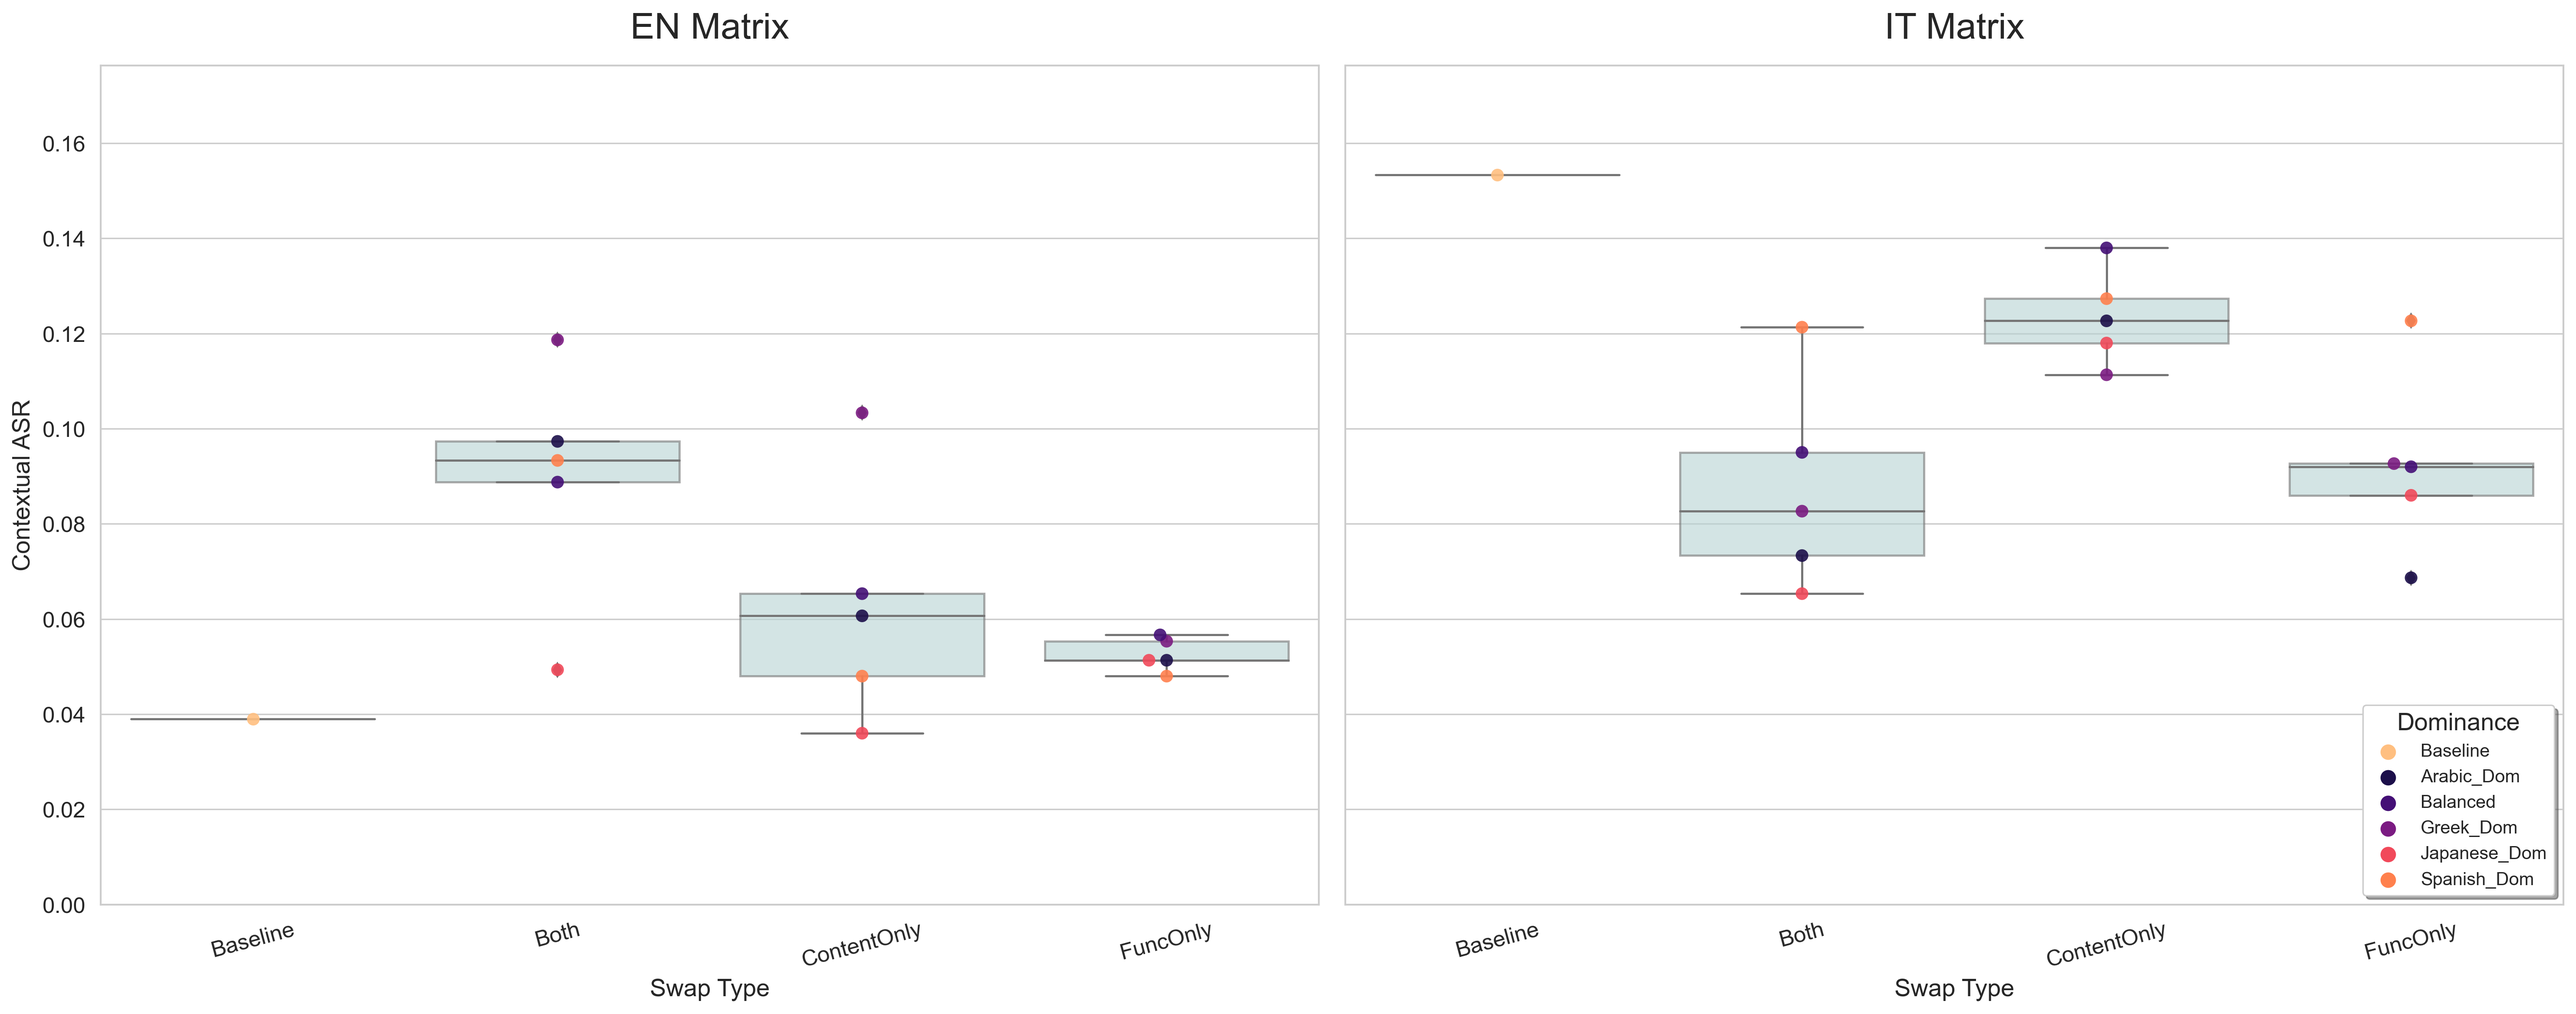
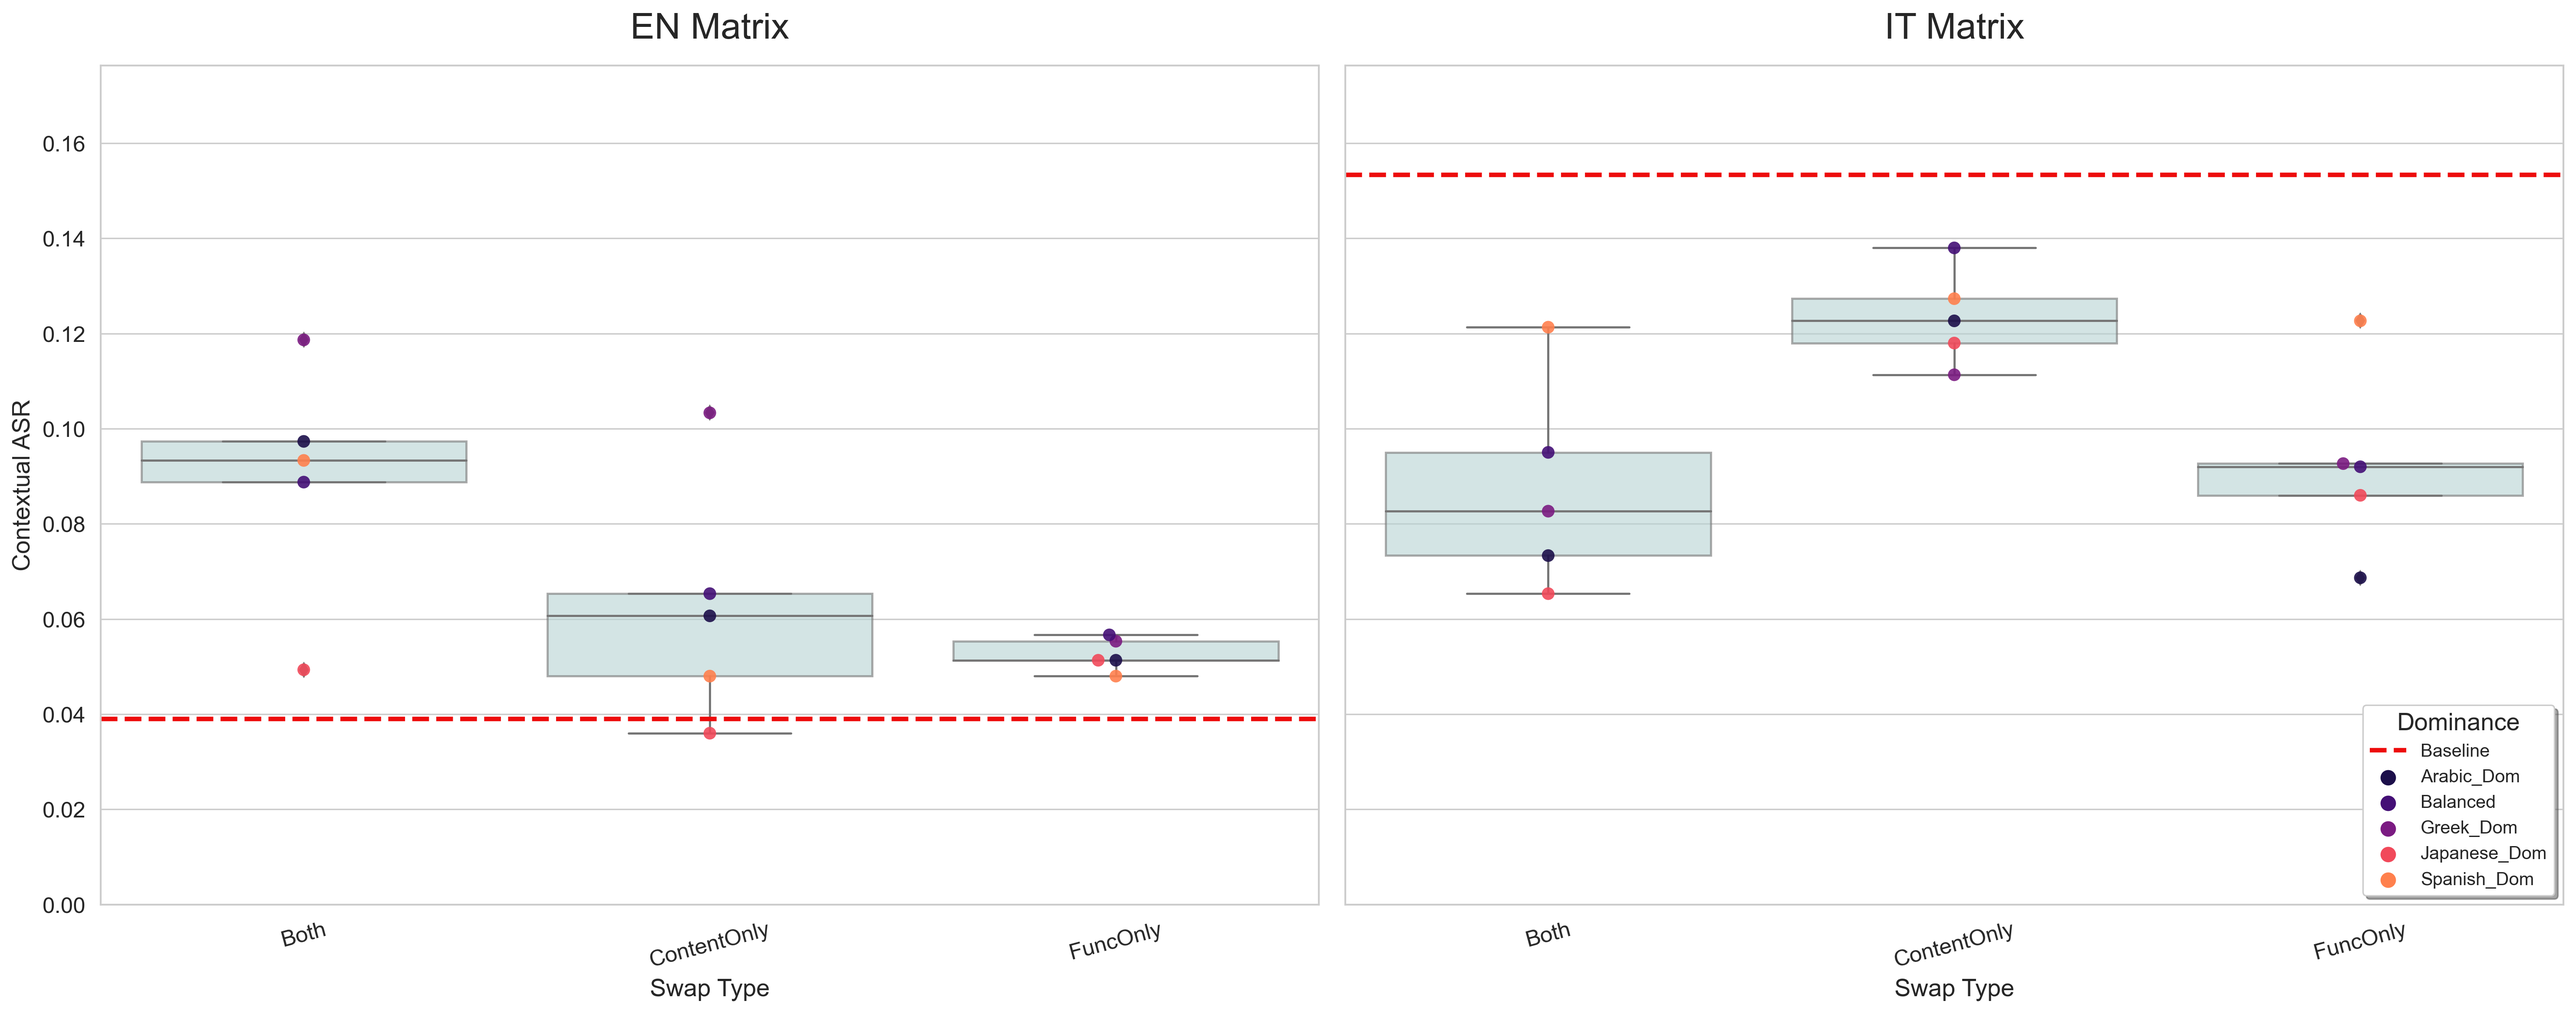
update resulrs

diff --git a/generate_latex_table.py b/generate_latex_table.py
@@ -17,59 +17,102 @@ def generate_latex_table(metrics_summary_path='experiment_results/metrics_summar
     if 'swap_type' not in df_baseline.columns:
         df_baseline['swap_type'] = 'Baseline'
 
-    metrics = ['Pct_Confusion', 'Pct_Refusal', 'Pct_Rebuttal', 'Pct_Benign_Compliance', 'Pct_Malicious_Compliance']
+    metrics = ['Pct_Refusal', 'Pct_Benign_Compliance', 'Pct_Malicious_Compliance', 'Pct_Confusion', 'Pct_Rebuttal', 'ASR_both', 'ASR_resp']
 
     # Combine dataframes
     df_combined = pd.concat([df_baseline, df], ignore_index=True)
 
-    # Group by matrix_language and swap_type, calculate mean and standard deviation
-    df_agg = df_combined.groupby(['matrix_language', 'swap_type'])[metrics].agg(['mean', 'std'])
+    # Group by matrix_language and swap_type, calculate mean and std
+    df_agg = df_combined.groupby(['matrix_language', 'swap_type'])[metrics].agg(['mean', 'std']) * 100
+
+    languages = ['En', 'It']
+    swap_order = ['Baseline', 'Both', 'ContentOnly', 'FuncOnly']
+    swap_headers = ['Baseline', 'Both', 'Content', 'Function']
 
     lines = []
     lines.append(r'\begin{table}[h]')
     lines.append(r'\centering')
     lines.append(r'\resizebox{\textwidth}{!}{')
-    lines.append(r'\begin{tabular}{llccccc}')
+    lines.append(r'\begin{tabular}{l' + 'c'*4 + ' ' + 'c'*4 + '}')
     lines.append(r'\toprule')
-    lines.append(r'\textbf{Matrix} & \textbf{Swap Type} & \textbf{Confusion} & \textbf{Refusal} & \textbf{Rebuttal} & \textbf{Benign Comp.} & \textbf{Malicious Comp.} \\')
+    lines.append(r' & \multicolumn{4}{c}{\textbf{English Matrix}} & \multicolumn{4}{c}{\textbf{Italian Matrix}} \\')
+    lines.append(r'\cmidrule(lr){2-5} \cmidrule(lr){6-9}')
+    lines.append(r' & ' + ' & '.join(swap_headers) + ' & ' + ' & '.join(swap_headers) + r' \\')
     lines.append(r'\midrule')
+    lines.append(r'\multicolumn{9}{l}{\textit{Behavioral decomposition (\%; rows sum to $\approx$ 100 per column)}} \\')
 
-    for lang in ['En', 'It']:
-        if lang not in df_agg.index.get_level_values('matrix_language'):
+    row_metrics = [
+        ('Refusal', 'Pct_Refusal', 0),
+        ('Benign Compliance', 'Pct_Benign_Compliance', 0),
+        ('Malicious Compliance', 'Pct_Malicious_Compliance', 0),
+        ('Confusion', 'Pct_Confusion', 0),
+        ('Rebuttal', 'Pct_Rebuttal', 0),
+        ('midrule', '', 0),
+        (r'\multicolumn{9}{l}{\textit{Safety judge metrics (\%)}}', 'header', 0),
+        (r'$\text{ASR}_{\text{both}}$', 'ASR_both', 0),
+        (r'$\text{ASR}_{\text{resp}}$', 'ASR_resp', 1)
+    ]
+
+    for label, metric_key, decimals in row_metrics:
+        if metric_key == '':
+            lines.append(r'\midrule')
             continue
+        elif metric_key == 'header':
+            lines.append(label + r' \\')
+            continue
+
+        row_str = label
         
-        lang_df = df_agg.xs(lang, level='matrix_language')
-        lang_print = 'English' if lang == 'En' else 'Italian'
-        
-        for i, swap in enumerate(['Baseline', 'ContentOnly', 'FuncOnly', 'Both']):
-            swap_lookup = swap
-            # Handle potential naming discrepancies between script generated names and CSV names
-            if swap not in lang_df.index:
-                if swap == 'ContentOnly' and 'Content_only' in lang_df.index: swap_lookup = 'Content_only'
-                elif swap == 'ContentOnly' and 'content_only' in lang_df.index: swap_lookup = 'content_only'
-                elif swap == 'FuncOnly' and 'Func_only' in lang_df.index: swap_lookup = 'Func_only'
-                elif swap == 'FuncOnly' and 'Functional_only' in lang_df.index: swap_lookup = 'Functional_only'
-                elif swap == 'Both' and 'both' in lang_df.index: swap_lookup = 'both'
-                else: continue
+        for lang in languages:
+            if lang not in df_agg.index.get_level_values('matrix_language'):
+                row_str += ' & ' * 4
+                continue
                 
-            row_str = (lang_print if i==0 else '') + ' & ' + swap.replace('Only', ' Only')
-            for m in metrics:
-                mean_val = lang_df.loc[swap_lookup, (m, 'mean')] * 100
-                
-                # If standard deviation is missing (like for single baseline trial runs), set it to 0.0
-                std_val = lang_df.loc[swap_lookup, (m, 'std')] * 100
-                if pd.isna(std_val): 
-                    std_val = 0.0
+            lang_df = df_agg.xs(lang, level='matrix_language')
+            
+            vals = []
+            stds = []
+            for swap in swap_order:
+                swap_lookup = swap
+                if swap not in lang_df.index:
+                    if swap == 'ContentOnly' and 'Content_only' in lang_df.index: swap_lookup = 'Content_only'
+                    elif swap == 'ContentOnly' and 'content_only' in lang_df.index: swap_lookup = 'content_only'
+                    elif swap == 'FuncOnly' and 'Func_only' in lang_df.index: swap_lookup = 'Func_only'
+                    elif swap == 'FuncOnly' and 'Functional_only' in lang_df.index: swap_lookup = 'Functional_only'
+                    elif swap == 'Both' and 'both' in lang_df.index: swap_lookup = 'both'
                     
-                row_str += f' & {mean_val:.1f}\\% $\\pm$ {std_val:.1f}\\%'
-            lines.append(row_str + r' \\')
-        lines.append(r'\midrule')
+                if swap_lookup in lang_df.index:
+                    vals.append(lang_df.loc[swap_lookup, (metric_key, 'mean')])
+                    stds.append(lang_df.loc[swap_lookup, (metric_key, 'std')])
+                else:
+                    vals.append(-1)
+                    stds.append(-1)
+                    
+            max_val = max(vals)
+            
+            for val, std in zip(vals, stds):
+                if val == -1:
+                    row_str += ' & -'
+                else:
+                    if pd.isna(std): std = 0.0
+                    
+                    is_max = (val == max_val)
+                    # Always use 2 decimal places per user request
+                    val_str = f"{val:.2f}"
+                    std_str = f"{std:.2f}"
+                        
+                    if is_max:
+                        row_str += f' & \\textbf{{{val_str}}} $\\pm$ {std_str}'
+                    else:
+                        row_str += f' & {val_str} $\\pm$ {std_str}'
+                        
+        lines.append(row_str + r' \\')
 
     lines.append(r'\bottomrule')
     lines.append(r'\end{tabular}')
     lines.append(r'}')
-    lines.append(r'\caption{Average Response Class compositions and standard deviations (\%) across configurations.}')
-    lines.append(r'\label{tab:response_classes_stats}')
+    lines.append(r'\caption{Average Response Class compositions and ASR Rates (\%) across configurations.}')
+    lines.append(r'\label{tab:response_classes_stats_swapped}')
     lines.append(r'\end{table}')
     
     table_str = '\n'.join(lines)

diff --git a/lib/visualize_config_variance.py b/lib/visualize_config_variance.py
@@ -41,7 +41,7 @@ def visualize_variance(csv_path='experiment_results/metrics_summary.csv',
         'Greek_Dom': "#7B1B82",    # Purple/magenta
         'Japanese_Dom': "#F1495A", # Bright red
         'Spanish_Dom': "#FF804D",  # Vibrant orange
-        'Baseline': "#FFBF80"      # Light peach/orange
+        'Baseline': "#ed0c0c"      # Light peach/orange
     }
 
     # If any dominance strategies are missing in the map, fill with magma
@@ -79,16 +79,23 @@ def visualize_variance(csv_path='experiment_results/metrics_summary.csv',
                 axes[i].text(0.5, 0.5, f'No data for {lang}', ha='center')
                 continue
             
-            order = custom_sort(df_lang['swap_type'].unique())
+            df_baseline = df_lang[df_lang['swap_type'] == 'Baseline']
+            df_lang_plot = df_lang[df_lang['swap_type'] != 'Baseline']
+            
+            order = custom_sort(df_lang_plot['swap_type'].unique())
             
             # Boxplot with reference styling (light-gray/greenish fills)
-            sns.boxplot(data=df_lang, x='swap_type', y=metric, order=order, 
+            sns.boxplot(data=df_lang_plot, x='swap_type', y=metric, order=order, 
                         ax=axes[i], color="#B2D8D8", boxprops=dict(alpha=0.6))
             
             # Swarmplot with beauty: colored by dominance using the manual palette
-            sns.swarmplot(data=df_lang, x='swap_type', y=metric, hue='dominance', 
-                          hue_order=dom_strategies, palette=color_palette, 
+            sns.swarmplot(data=df_lang_plot, x='swap_type', y=metric, hue='dominance', 
+                          hue_order=[s for s in dom_strategies if s != 'Baseline'], palette=color_palette, 
                           order=order, ax=axes[i], size=7, alpha=0.9, dodge=False)
+            
+            if not df_baseline.empty:
+                baseline_val = df_baseline[metric].mean()
+                axes[i].axhline(baseline_val, color=color_palette.get('Baseline', '#FFBF80'), linestyle='--', linewidth=2.5, label='Baseline')
             
             axes[i].set_title(f'{lang} Matrix', fontsize=20, pad=15)
             axes[i].set_ylim(0, y_max)
@@ -109,6 +116,51 @@ def visualize_variance(csv_path='experiment_results/metrics_summary.csv',
         # plt.suptitle(f'{m_label} Distribution Across All Configurations', fontsize=24, y=1.05)
         plt.tight_layout()
         plt.savefig(os.path.join(output_dir, f'{metric}_consolidated_spread.png'), dpi=300, bbox_inches='tight')
+        plt.close()
+
+        # 1.5 Consolidated Bar Plot with Dominance
+        fig, axes = plt.subplots(1, 2, figsize=(20, 8), sharey=True)
+        handles_bar, labels_bar = [], []
+        
+        for i, lang in enumerate(languages):
+            df_lang = df[df['matrix_language'] == lang]
+            if df_lang.empty:
+                axes[i].text(0.5, 0.5, f'No data for {lang}', ha='center')
+                continue
+            
+            df_baseline = df_lang[df_lang['swap_type'] == 'Baseline']
+            df_lang_plot = df_lang[df_lang['swap_type'] != 'Baseline']
+            
+            order = custom_sort(df_lang_plot['swap_type'].unique())
+            
+            sns.barplot(data=df_lang_plot, x='swap_type', y=metric, hue='dominance',
+                        hue_order=[s for s in dom_strategies if s != 'Baseline'],
+                        palette=color_palette, order=order, ax=axes[i], alpha=0.85, ci=95, capsize=0.05)
+            
+            if not df_baseline.empty:
+                baseline_val = df_baseline[metric].mean()
+                axes[i].axhline(baseline_val, color=color_palette.get('Baseline', '#FFBF80'), linestyle='--', linewidth=2.5, label='Baseline')
+            
+            axes[i].set_title(f'{lang} Matrix', fontsize=20, pad=15)
+            axes[i].set_ylim(0, y_max)
+            axes[i].set_ylabel(m_label if i == 0 else "")
+            axes[i].set_xlabel("Swap Type")
+            axes[i].tick_params(axis='x', rotation=15)
+            
+            h, l = axes[i].get_legend_handles_labels()
+            if h:
+                # Ensure Baseline is only in the legend if we added its handle explicitly
+                # Wait, axes[i].axhline returns a Line2D which doesn't get automatically added to the handles from sns if custom, but since we set label='Baseline', it might.
+                handles_bar, labels_bar = h, l
+            axes[i].get_legend().remove()
+
+        if handles_bar:
+            # Reorder legend to put Baseline at the end if it's there
+            axes[1].legend(handles_bar, labels_bar, title="Dominance Strategy", loc='upper right', 
+                           frameon=True, shadow=True, fontsize=10)
+
+        plt.tight_layout()
+        plt.savefig(os.path.join(output_dir, f'{metric}_consolidated_dominance_bars.png'), dpi=300, bbox_inches='tight')
         plt.close()
 
         # 2. Consolidated Interaction Plot
